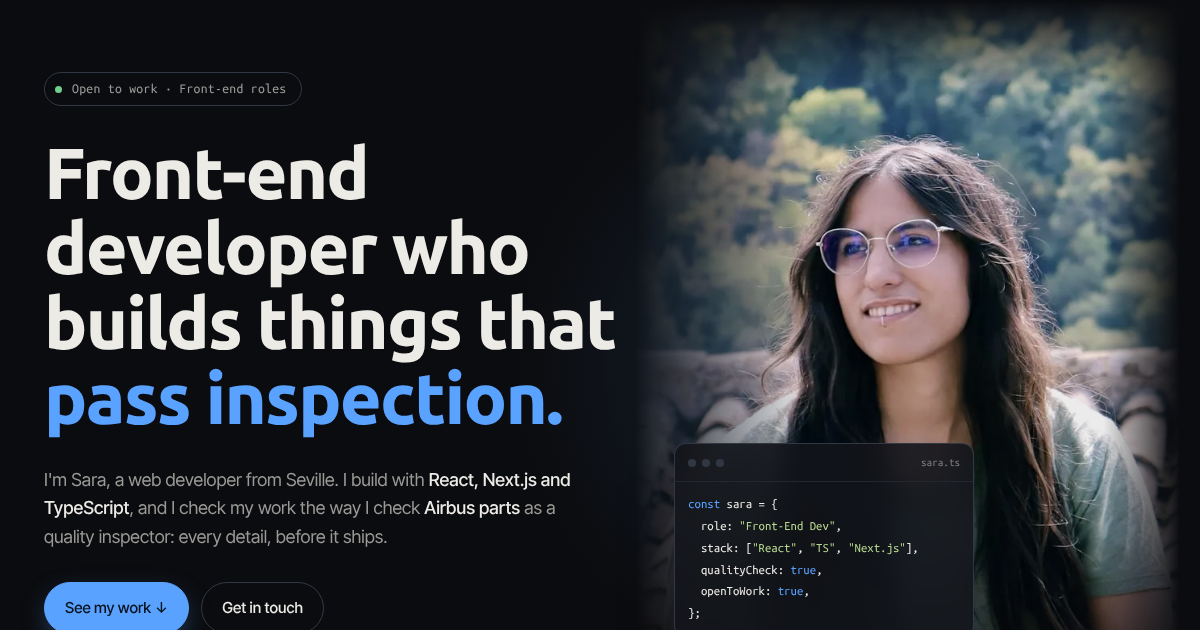
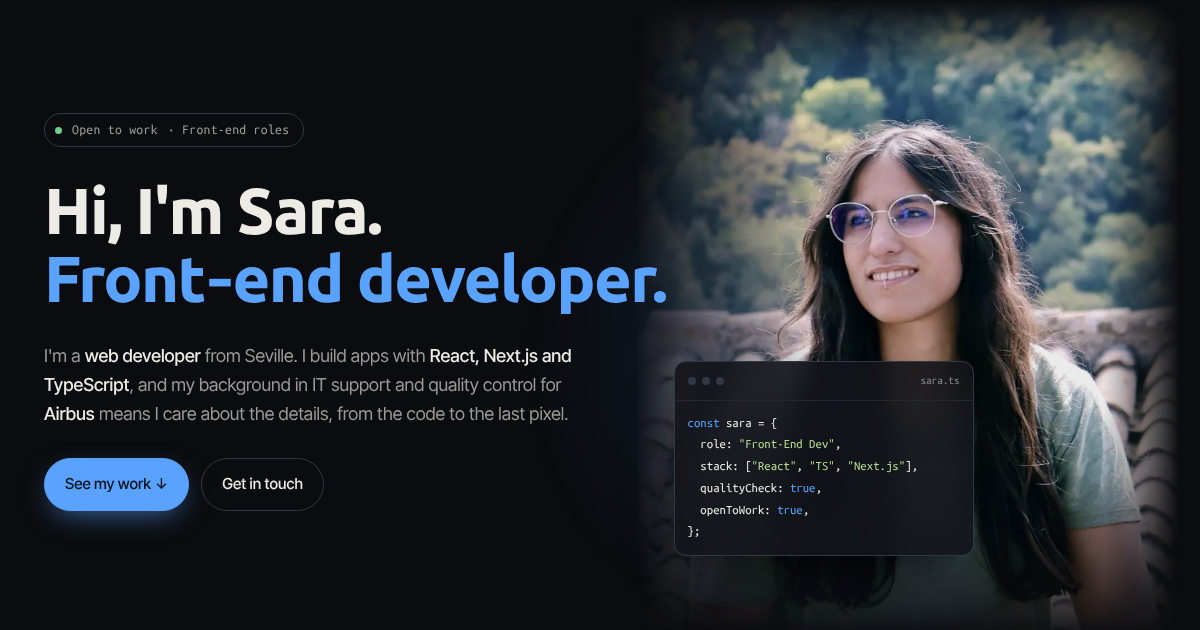
Titular más sencillo y 'web developer' resaltado en la intro

diff --git a/src/components/Hero.tsx b/src/components/Hero.tsx
@@ -9,11 +9,14 @@ export default function Hero() {
             <i></i>Open to work<span className="largo"> · Front-end roles</span>
           </span>
           <h1>
-            Front-end developer who builds things that <em>pass inspection.</em>
+            Hi, I&apos;m Sara.
+            <br />
+            <em>Front&#8209;end developer.</em>
           </h1>
           <p className="intro">
-            I&apos;m Sara, a web developer from Seville. I build with <b>React, Next.js and TypeScript</b>, and I
-            check my work the way I check <b>Airbus parts</b> as a quality inspector: every detail, before it ships.
+            I&apos;m a <b>web developer</b> from Seville. I build apps with <b>React, Next.js and TypeScript</b>, and my
+            background in IT support and
+            quality control for <b>Airbus</b> means I care about the details, from the code to the last pixel.
           </p>
           <div className="ctas">
             <a className="btn primary" href="#work">
